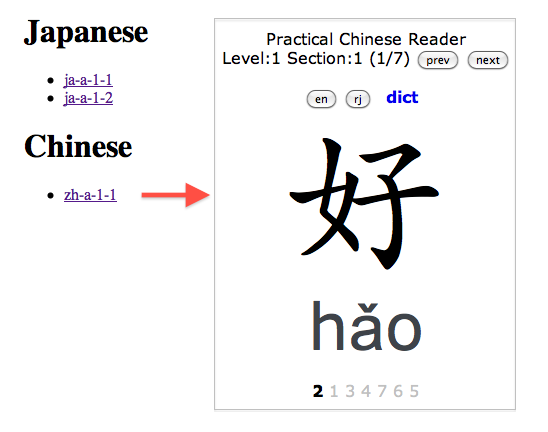
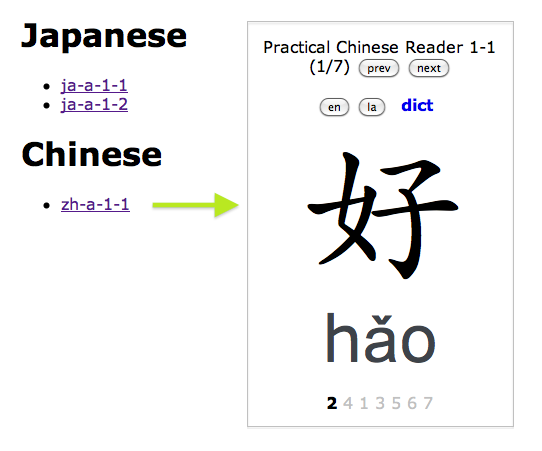
made 'rj' abstract 'la' latin.

diff --git a/templates/card.html b/templates/card.html
@@ -7,11 +7,9 @@
 </head>
 <body>
 <div id="card" deck="{{meta.deck}}" clue="{{clue}}">
-<div id="source">{{meta.source}}</div>
+<div id="source">{{meta.source}} {{meta.level}}-{{meta.section}}</div>
 
 <div id="pager">
- Level:{{meta.level}}
- Section:{{meta.section}} 
  (<span id="num"></span>/<span id="count"></span>)
  <input type="button" id="prev" value="prev"></input>
  <input type="button" id="next" value="next"></input>

diff --git a/static/style.css b/static/style.css
@@ -24,10 +24,10 @@ div#index {
   font-family:"Hiragino Kaku Gothic Std","serif";
 }
 #zh {
-  font-family:"Kai","serif";
+  font-family:"STKaiti","serif";
   font-size:10em;
 }
-#rj { 
+#la { 
   font-size:4em;
   color:#3E4349;
 }

diff --git a/flashcards.py b/flashcards.py
@@ -6,7 +6,7 @@ class Flashcards:
     lang_code = {'ja':"Japanese",
                  'zh':"Chinese",
                  'en':"English",
-                 'rj':"Romaji"}
+                 'la':"Roman"}
 
     def __init__(self,deck,clue):
         if not deck and not clue:

diff --git a/README.md b/README.md
@@ -17,10 +17,9 @@ reload to shuffle!
 # TODO
 
     [ ] ajax _dict_ link
-    [ ] make "rj" abstract, i.e. "la" for romanization (latin)
     [ ] make "lang" abstract, i.e. "subj", "subjstr"
     [ ] consider ordered "clues" member in deck JSON
-
+    [ ] keyboard shortcuts
 
 ## deck format
 
@@ -32,7 +31,7 @@ reload to shuffle!
       "cards":
       [
         { "ja":"日本語", 
-          "rj":"romaji",
+          "la":"latin (romaji)",
           "en":"english" },
       ]
     }
